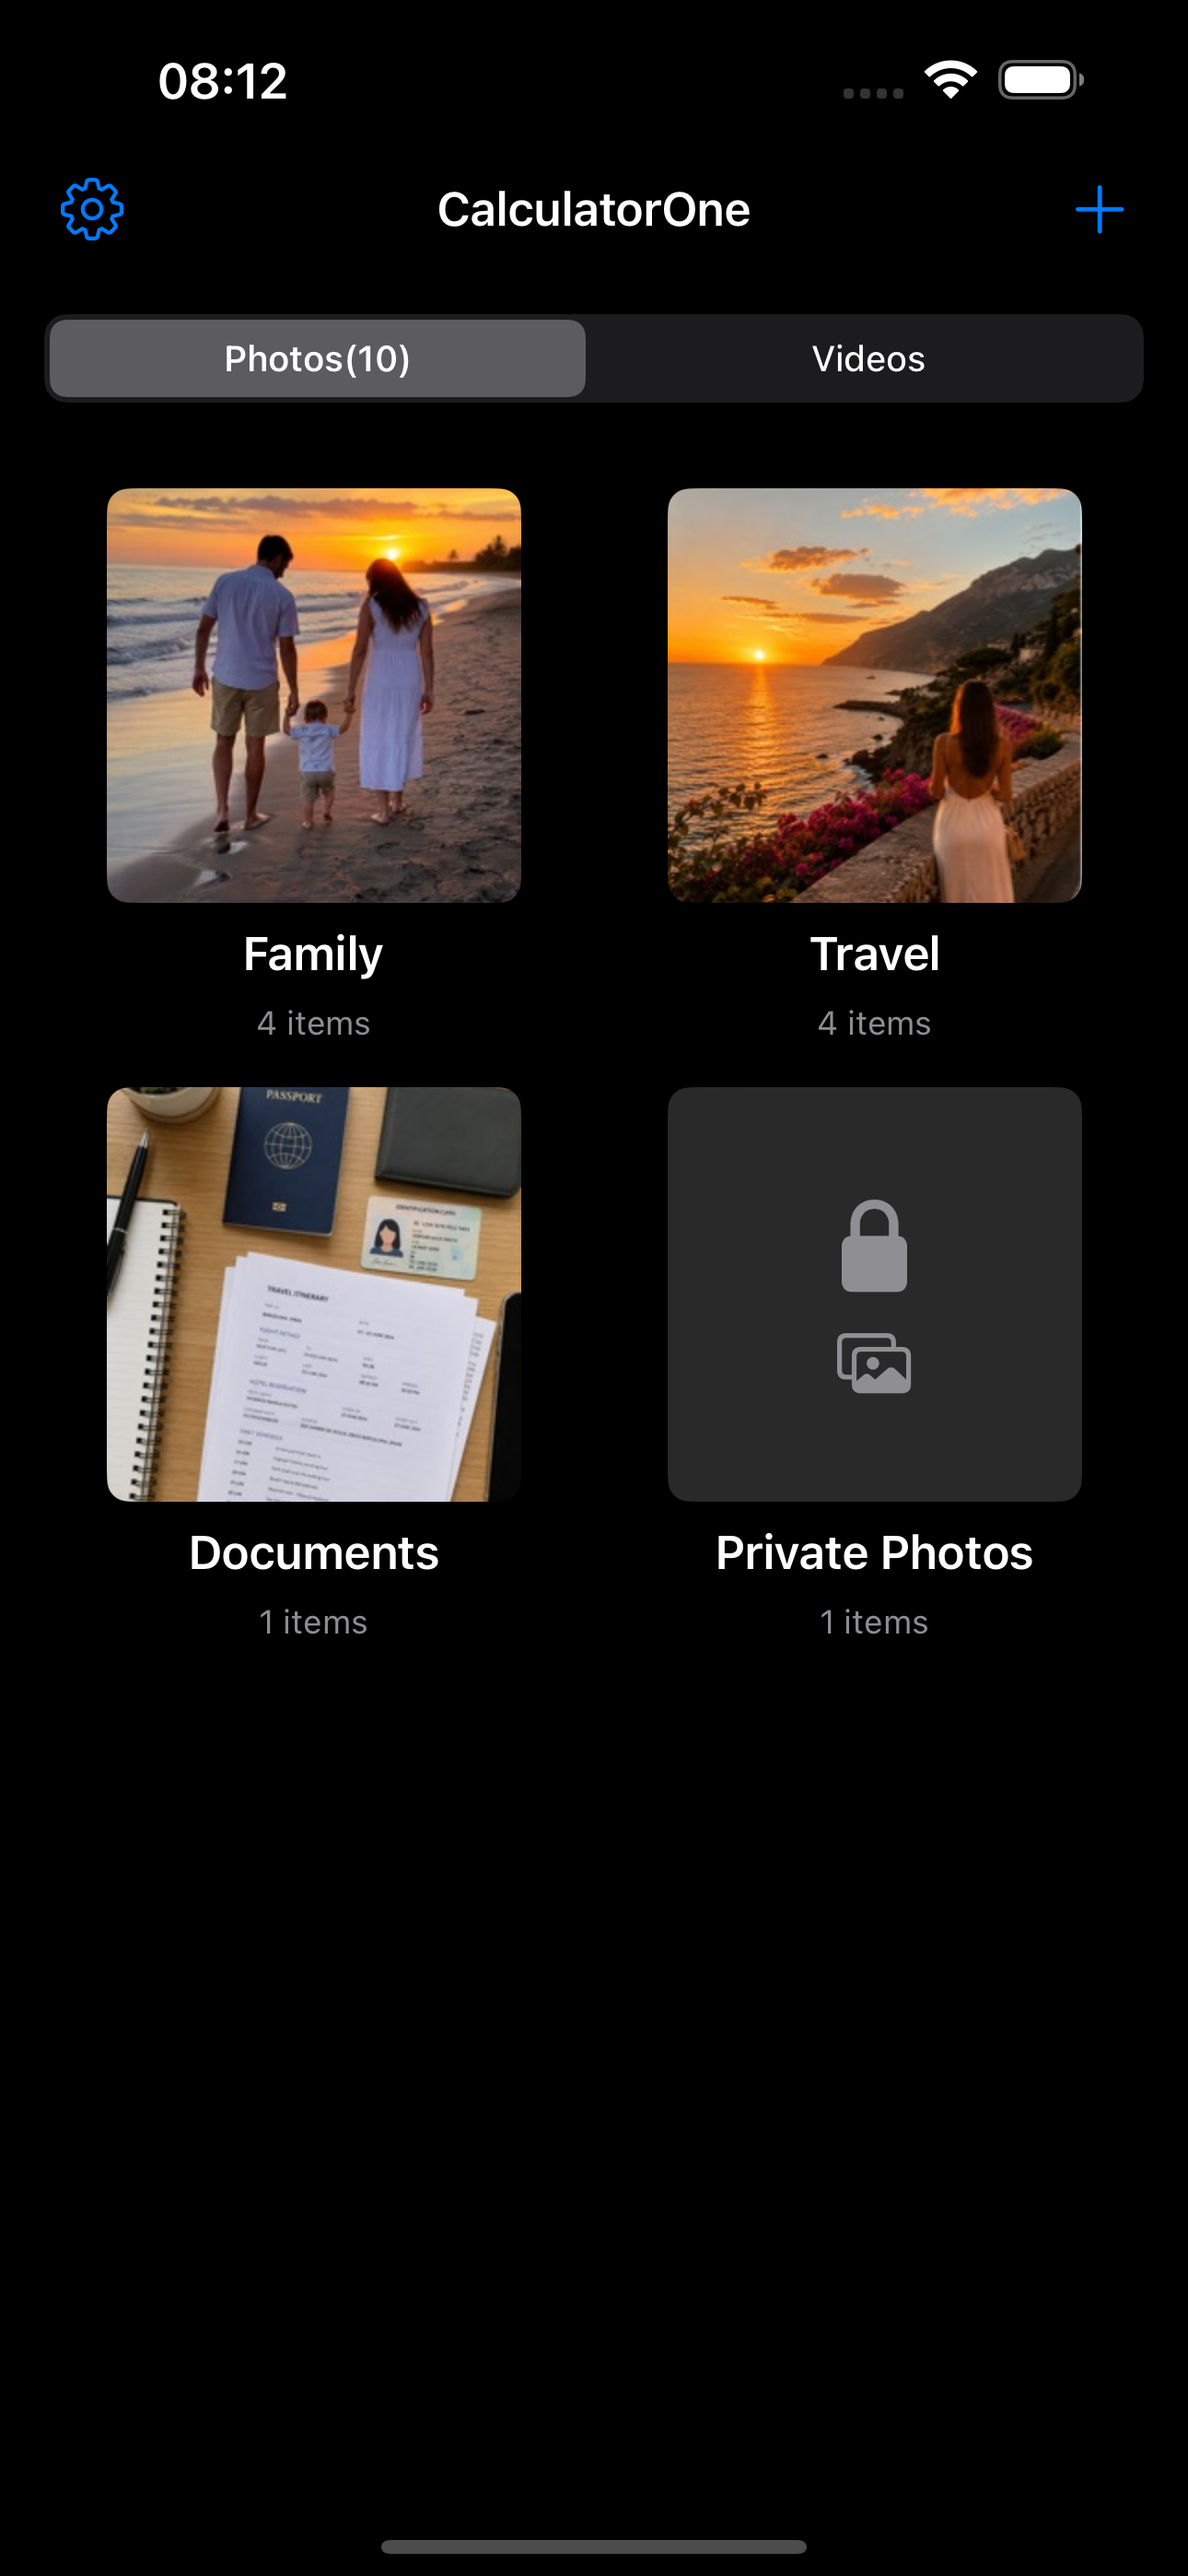
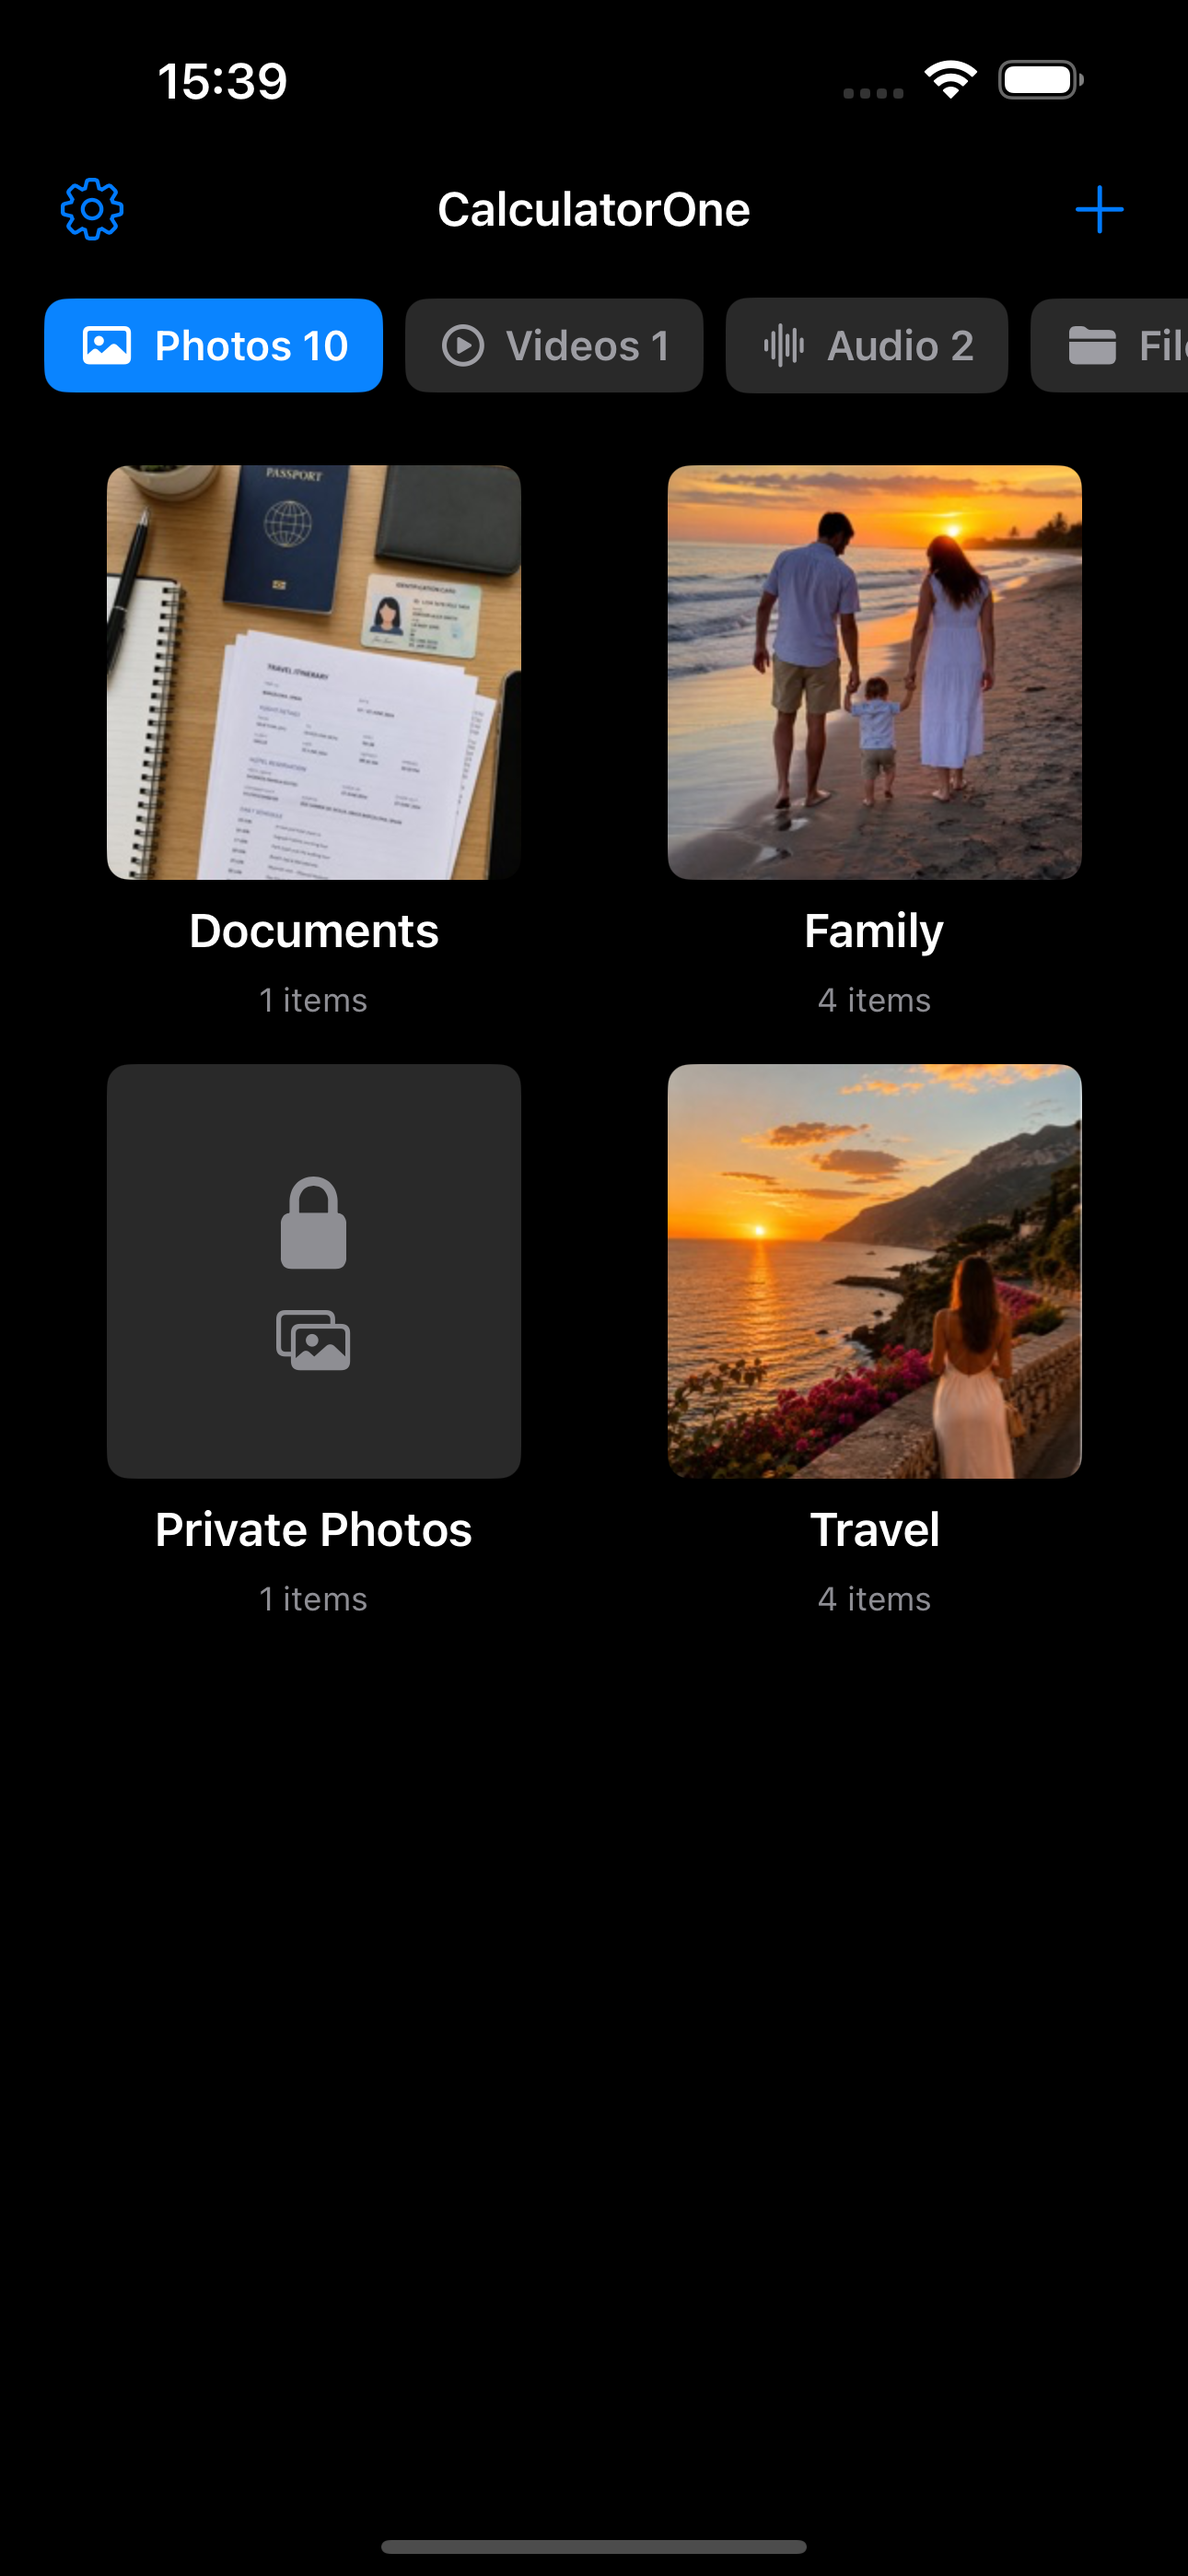
Refresh site screenshots for current app

Changed region(s): [[0.031, 0.0933, 1.0, 0.6534], [0.124, 0.0, 0.186, 0.0622], [0.2171, 0.0311, 0.2481, 0.0622]]

diff --git a/index.html b/index.html
@@ -50,11 +50,11 @@
       <div class="showcase shell">
         <div class="showcase-copy">
           <p class="eyebrow">Simple by design</p>
-          <h2>Your media, clearly organized.</h2>
-          <p>Bring selected photos into a private space, capture new media directly, and keep meaningful collections easy to find.</p>
-          <ul class="checklist"><li>Import selected photos and videos</li><li>Capture directly into the vault</li><li>Keep private album previews hidden</li><li>Start and stop WiFi Transfer explicitly</li></ul>
+          <h2>Your media and files, clearly organized.</h2>
+          <p>Bring selected media and files into a private space, capture new media directly, and keep meaningful collections easy to find.</p>
+          <ul class="checklist"><li>Import photos, videos, audio, and files</li><li>Capture directly into the vault</li><li>Keep private album previews hidden</li><li>Start and stop WiFi Transfer explicitly</li></ul>
         </div>
-        <div class="shots"><img src="assets/family-album.png" alt="Family album in CalculatorOne+"><img src="assets/import-options.png" alt="Import options in CalculatorOne+"></div>
+        <div class="shots"><img src="assets/files-main-directory.png" alt="Private file directory in CalculatorOne+"><img src="assets/import-options.png" alt="Import options in CalculatorOne+"></div>
       </div>
     </section>
 
